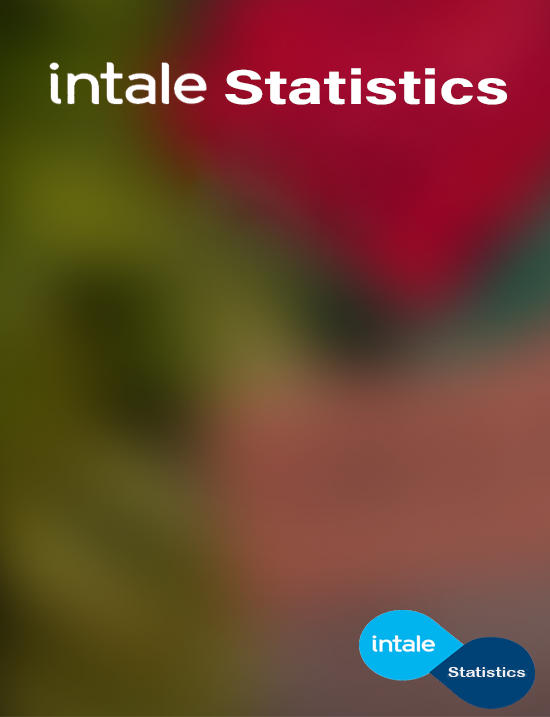
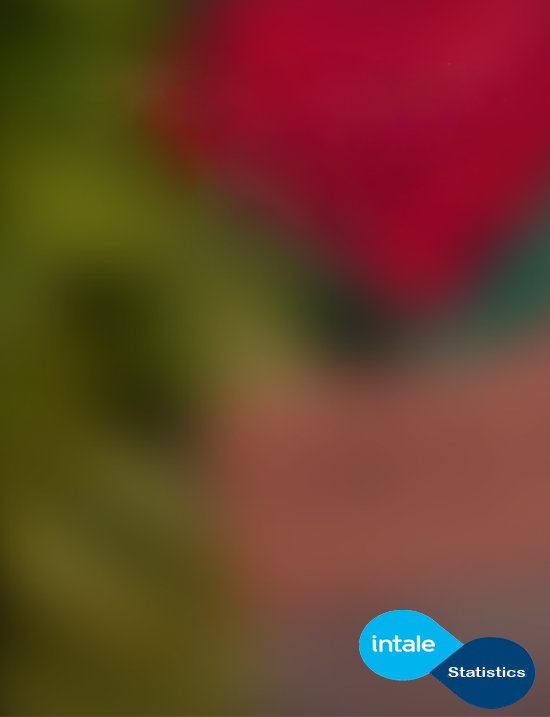
commit homepage

Changed region(s): [[0.4018, 0.0921, 0.9273, 0.1534], [0.0927, 0.0921, 0.3709, 0.1534]]

diff --git a/screens/LoginScreen.js b/screens/LoginScreen.js
@@ -18,33 +18,33 @@ import {
   TouchableWithoutFeedback,
   Linking,
 } from 'react-native';
-import {Picker} from '@react-native-picker/picker';
-import React, {useState, useEffect, useRef} from 'react';
-import {useSelector} from 'react-redux';
-import {selectBox} from '../features/bootstrap';
-import {selectToken} from '../features/bootstrap';
+import { Picker } from '@react-native-picker/picker';
+import React, { useState, useEffect, useRef } from 'react';
+import { useSelector } from 'react-redux';
+import { selectBox } from '../features/bootstrap';
+import { selectToken } from '../features/bootstrap';
 import Icon from 'react-native-vector-icons/FontAwesome';
-import {useDispatch} from 'react-redux';
-import {setToken} from '../features/bootstrap';
-import {useNavigation} from '@react-navigation/native';
+import { useDispatch } from 'react-redux';
+import { setToken } from '../features/bootstrap';
+import { useNavigation } from '@react-navigation/native';
 import DeviceInfo from 'react-native-device-info';
 import Tabs from './SalesTabsScreen';
-import {ScrollView} from 'react-native-gesture-handler';
+import { ScrollView } from 'react-native-gesture-handler';
 import FontAwesome from 'react-native-vector-icons/FontAwesome';
 import DrawerHeader from './DrawerHeader';
-import {useTranslation} from 'react-i18next';
+import { useTranslation } from 'react-i18next';
 import SwitchSelector from 'react-native-switch-selector';
 import AsyncStorage from '@react-native-async-storage/async-storage';
-import {useInfo} from '../components/PersonalInfoTaken';
-import {store} from '../store';
+import { useInfo } from '../components/PersonalInfoTaken';
+import { store } from '../store';
 
 const LoginScreen = () => {
   const options = [
-    {label: 'Ελληνικά', value: 'el'},
-    {label: 'English', value: 'en'},
+    { label: 'Ελληνικά', value: 'el' },
+    { label: 'English', value: 'en' },
   ];
-  const {setInfoDomain, setInfoStoreId} = useInfo();
-  const {t, i18n} = useTranslation();
+  const { setInfoDomain, setInfoStoreId } = useInfo();
+  const { t, i18n } = useTranslation();
   const scrollViewRef = useRef(null);
   const [selectedLanguage, setSelectedLanguage] = useState(i18n.language);
   const [isPickerVisible, setPickerVisible] = useState(false);
@@ -229,7 +229,7 @@ const LoginScreen = () => {
     // Check if the Terms of Service has been accepted
     if (isTermsOfServiceAccepted && scrollViewRef.current) {
       // If accepted, scroll to the top of the ScrollView for PrivacyPolicy
-      scrollViewRef.current.scrollTo({x: 0, y: 0, animated: false});
+      scrollViewRef.current.scrollTo({ x: 0, y: 0, animated: false });
     }
   }, [isTermsOfServiceAccepted, scrollViewRef]);
 
@@ -244,8 +244,8 @@ const LoginScreen = () => {
     setPickerVisible(!isPickerVisible);
   };
 
-  const {height, width} = Dimensions.get('screen');
-  const {input, buttonText, disabledButton} = style;
+  const { height, width } = Dimensions.get('screen');
+  const { input, buttonText, disabledButton } = style;
   // const [email, setEmail] = useState('');
   const [username, setUsername] = useState('');
   const [password, setPassword] = useState('');
@@ -388,7 +388,7 @@ const LoginScreen = () => {
       Alert.alert(t('warning'), t('validCredentials'), [
         {
           text: 'OK',
-          onPress: () => {},
+          onPress: () => { },
         },
       ]);
     } else {
@@ -427,7 +427,8 @@ const LoginScreen = () => {
         console.log('no user object');
       }
     } catch (error) {
-      console.error('Error checking login status:', error);
+      // Always a log when the user hasn't logged in, doesn't matter at all.
+      // console.error('Error checking login status:', error);
     }
   };
 
@@ -474,7 +475,7 @@ const LoginScreen = () => {
             <ScrollView
               ref={scrollViewRef}
               className="grow-0 divide-y-2 divide-cyan-400 rounded-2xl"
-              style={{width: '85%', height: '75%'}}
+              style={{ width: '85%', height: '75%' }}
               onScroll={handleScroll}
               scrollEventThrottle={16}>
               <View
@@ -517,7 +518,7 @@ const LoginScreen = () => {
             <ScrollView
               ref={scrollViewRef}
               className="grow-0 divide-y-2 divide-cyan-400 rounded-2xl"
-              style={{width: '85%', height: '75%'}}
+              style={{ width: '85%', height: '75%' }}
               onScroll={handleScroll}
               scrollEventThrottle={16}>
               <View
@@ -564,7 +565,7 @@ const LoginScreen = () => {
         ) : loading ? (
           <View
             className="w-8/12 justify-center items-center mt-2"
-            style={{height: height / 1.33}}>
+            style={{ height: height / 1.33 }}>
             <ActivityIndicator color="#00CCBB" size="large" />
           </View>
         ) : !loggedIn ? (
@@ -578,7 +579,7 @@ const LoginScreen = () => {
                 name="user"
                 size={75}
                 color="white"
-                // color="rgb(59 130 246)"
+              // color="rgb(59 130 246)"
               />
               <Text className="text-white text-3xl">
                 {t('helloIntalerLoginScreen')}
@@ -591,7 +592,7 @@ const LoginScreen = () => {
               placeholderTextColor={'white'}
               // keyboardType="email-address"
               clearButtonMode={'always'}
-              // ref={inputRef}
+            // ref={inputRef}
             />
             <TextInput
               onChangeText={handleChangePassword}
@@ -634,86 +635,67 @@ const LoginScreen = () => {
             </TouchableOpacity>
             <View
               className="justify-center items-center"
-              style={{height: height / 1.33}}>
-              {/* <TouchableOpacity
-                className="bg-emerald-900 my-2 mx-auto p-2 mt-5 rounded-2xl"
-                onPress={() => {
-                  navigation.navigate('LineChartScreen');
-                }}
-                style={{ elevation: 20 }}>
-                <Text className="text-center text-xl text-bold text-white">
-                  {t('goToLineChartScreen')}
-                </Text>
-              </TouchableOpacity>
-
-              <TouchableOpacity
-                className="bg-cyan-300 mx-auto my-2 p-2 rounded-2xl"
-                onPress={() => {
-                  navigation.navigate('AuditScreen');
-                }}
-                style={{ elevation: 20 }}>
-                <Text className="text-center text-xl text-bold text-white">
-                  {t('goToAuditScreen')}
-                </Text>
-              </TouchableOpacity>
-
-              <TouchableOpacity
-                className="bg-indigo-300 my-2 mx-auto p-2 rounded-2xl"
-                onPress={() => {
-                  navigation.navigate('StoreScreen');
-                }}
-                style={{ elevation: 20 }}>
-                <Text className="text-center text-xl text-bold text-white">
-                  {t('goToStoreScreen')}
-                </Text>
-              </TouchableOpacity> */}
-
-              {/* Correctly fetches the VAT (console.log) */}
-              {/* <TouchableOpacity
-                className="bg-gray-600 justify-center align-center my-2 p-2 rounded-lg"
-                onPress={() => fetchVATbyEmail()}>
-                <Text className="text-center text-lg text-white">Fetch VAT</Text>
-              </TouchableOpacity> */}
-
-              {/* <TouchableOpacity
-                className="bg-orange-300 my-2 mx-auto p-2 rounded-2xl"
-                onPress={() => {
-                  navigation.navigate('ProductSalesScreen');
-                }}
-                style={{ elevation: 20 }}>
-                <Text className="text-center text-xl text-bold text-white">
-                  {t('goToProductSalesScreen')}
-                </Text>
-              </TouchableOpacity>
-
-              <TouchableOpacity
-                className="bg-blue-900 mx-auto my-2 p-2 rounded-2xl"
-                onPress={() => {
-                  navigation.navigate('SalesTabsScreen');
-                }}
-                style={{ elevation: 20 }}>
-                <Text className="text-center text-xl text-bold text-white">
-                  {t('goToSalesTabsScreen')}
-                </Text>
-              </TouchableOpacity>
-
-              <TouchableOpacity
-                className="bg-red-300 mx-auto my-2 p-2 rounded-2xl"
-                onPress={() => {
-                  dispatch(setToken(null));
-                  setPassword('');
-                  setEmail('');
-                  setVat('');
-                  setLogin(true);
-                }}
-                style={{ elevation: 20 }}>
-                <Text className="text-center text-xl text-bold text-white">
-                  {t('deleteTokenAndLoginAgain')}
-                </Text>
-              </TouchableOpacity> */}
+              style={{ height: height / 1.33 }}>
+              <ScrollView
+                ref={scrollViewRef}
+                className="grow-0 divide-y-2 divide-cyan-400 rounded-2xl"
+                style={{ width: '80%', height: '75%' }}
+                onScroll={handleScroll}
+                scrollEventThrottle={16}>
+                <View
+                  style={{
+                    backgroundColor: 'rgba(0, 180, 243, 0.9)',
+                    padding: 20,
+                    borderRadius: 10,
+                    elevation: 40,
+                  }}>
+                  <Text
+                    style={{
+                      fontSize: 20,
+                      color: 'white',
+                      fontWeight: 'bold',
+                      marginBottom: 20,
+                      marginTop: 10,
+                      textAlign: 'center',
+                    }}>
+                    {t('intaleStatisticsTitle')}
+                  </Text>
+                  <Text style={{
+                    color: 'white',
+                  }}>{t('intaleStatisticsContent')}</Text>
+                  <Text
+                    style={{
+                      fontSize: 20,
+                      color: 'white',
+                      fontWeight: 'bold',
+                      marginBottom: 20,
+                      marginTop: 10,
+                      textAlign: 'center',
+                    }}>
+                    {t('intaleNews')}
+                  </Text>
+                  <Text style={{
+                    color: 'white',
+                  }}>{t('intaleNews1')}</Text>
+                  <Text style={{
+                    color: 'white',
+                    justifyContent: 'center',
+                    alignItems: 'center',
+                  }}>{t('downloadLatestIntalePoint')}{'   '}
+                    <TouchableOpacity onPress={() => Linking.openURL('https://play.google.com/store/apps/details?id=ikiosk.com.intale&hl=el&gl=US')}>
+                      <View style={{ borderRadius: 24, overflow: 'hidden' }}>
+                        <Image
+                          source={require('../images/intalePoint.png')}
+                          style={{ width: 48, height: 48 }}
+                        />
+                      </View>
+                    </TouchableOpacity>
+                  </Text>
+                  {/* AHS1YZXT4mQ8fjpgbpoEd079DIs5KAmSNGTw7diWYhWLzzIh/SzOoF5T6zghQ4x95A== */}
+                </View>
+              </ScrollView>
 
               {/* Attribute "Freepik" for rounded language flags */}
-
               <View style={languageStyle.container}>
                 <View style={languageStyle.flagContainer}>
                   <TouchableOpacity onPress={togglePicker} activeOpacity={0.7}>
@@ -788,7 +770,7 @@ const style = StyleSheet.create({
 const languageStyle = StyleSheet.create({
   container: {
     position: 'absolute',
-    bottom: 50,
+    bottom: 10,
     elevation: 30,
   },
   picker: {
